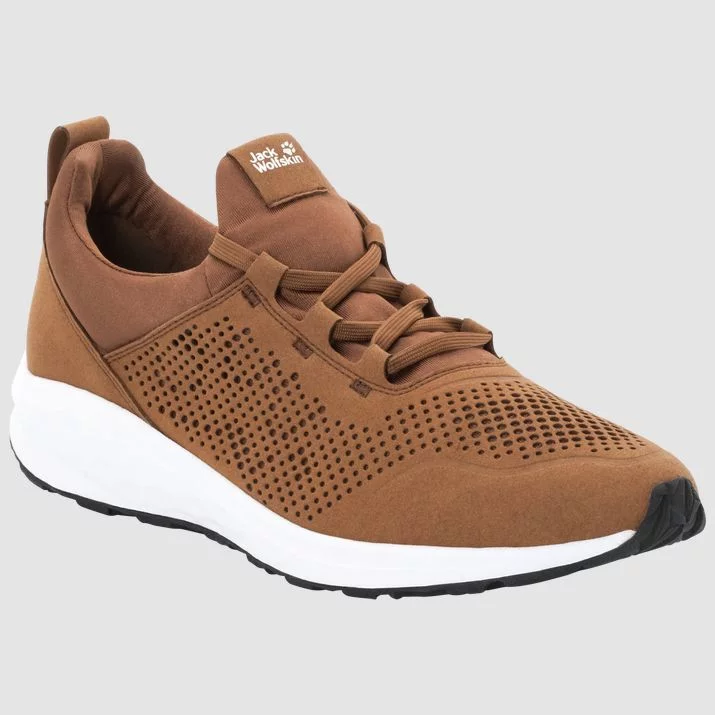
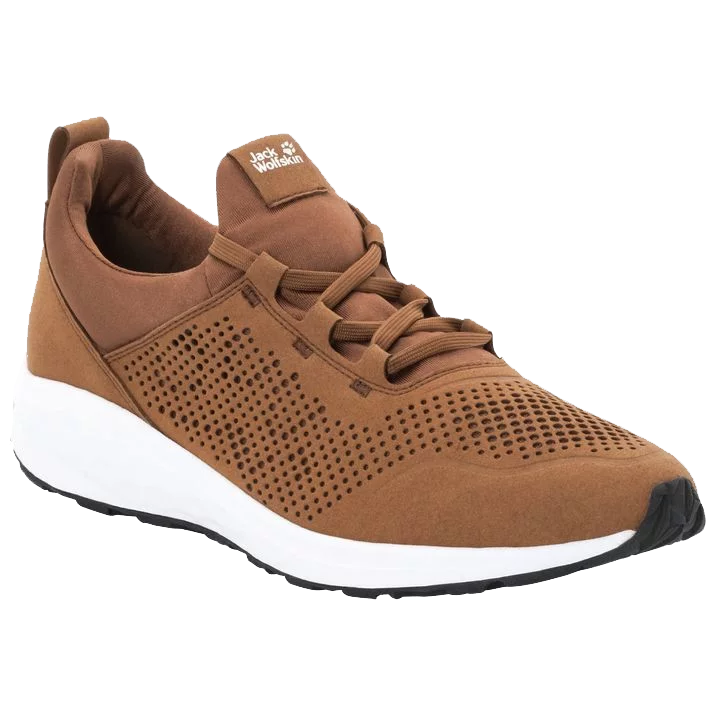
fix example products; added to project; removed background;

diff --git a/src/Libraries/SmartStore.Data/Setup/SeedData/InvariantSeedData.cs b/src/Libraries/SmartStore.Data/Setup/SeedData/InvariantSeedData.cs
@@ -9096,7 +9096,7 @@ namespace SmartStore.Data.Setup
                 Name = "Trousers",
                 Alias = "Pants",
                 CategoryTemplateId = categoryTemplateInGridAndLines.Id,
-                Picture = CreatePicture(File.ReadAllBytes(sampleImagesPath + "category_trousers.jpg"), "image/png", GetSeName("Trousers")),
+                Picture = CreatePicture(File.ReadAllBytes(sampleImagesPath + "category_trousers.png"), "image/png", GetSeName("Trousers")),
                 Published = true,
                 ParentCategoryId = _ctx.Set<Category>().Where(x => x.MetaTitle == "Fashion").First().Id,
                 DisplayOrder = 1,
